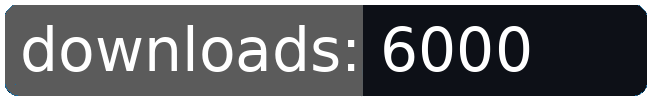
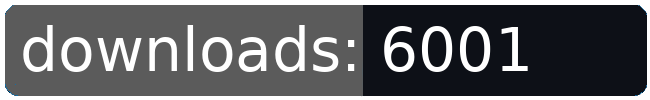
dl log written

Changed region(s): [[0.7692, 0.24, 0.8308, 0.72]]

diff --git a/README.md b/README.md
@@ -307,8 +307,8 @@
 		<td>5951</td>
 		<td>5969</td>
 		<td>5983</td>
-		<td>6000</td>
-		<td>+ 17</td>
+		<td>6001</td>
+		<td>+ 18</td>
 	</tr>
 	<tr>
 		<td>landing.images.highres</td>
@@ -527,8 +527,8 @@
 		<td></td>
 		<td></td>
 		<td></td>
-		<td>272233</td>
-		<td>753</td>
+		<td>272234</td>
+		<td>754</td>
 	</tr>
 </table>
 </sub></sup>
@@ -850,8 +850,8 @@
 		<td>5951</td>
 		<td>5969</td>
 		<td>5983</td>
-		<td>6000</td>
-		<td>+ 17</td>
+		<td>6001</td>
+		<td>+ 18</td>
 	</tr>
 	<tr>
 		<td>kestrel.unlocks</td>
@@ -1059,8 +1059,8 @@
 		<td></td>
 		<td></td>
 		<td></td>
-		<td>272233</td>
-		<td>753</td>
+		<td>272234</td>
+		<td>754</td>
 	</tr>
 </table>
 </sub></sup>